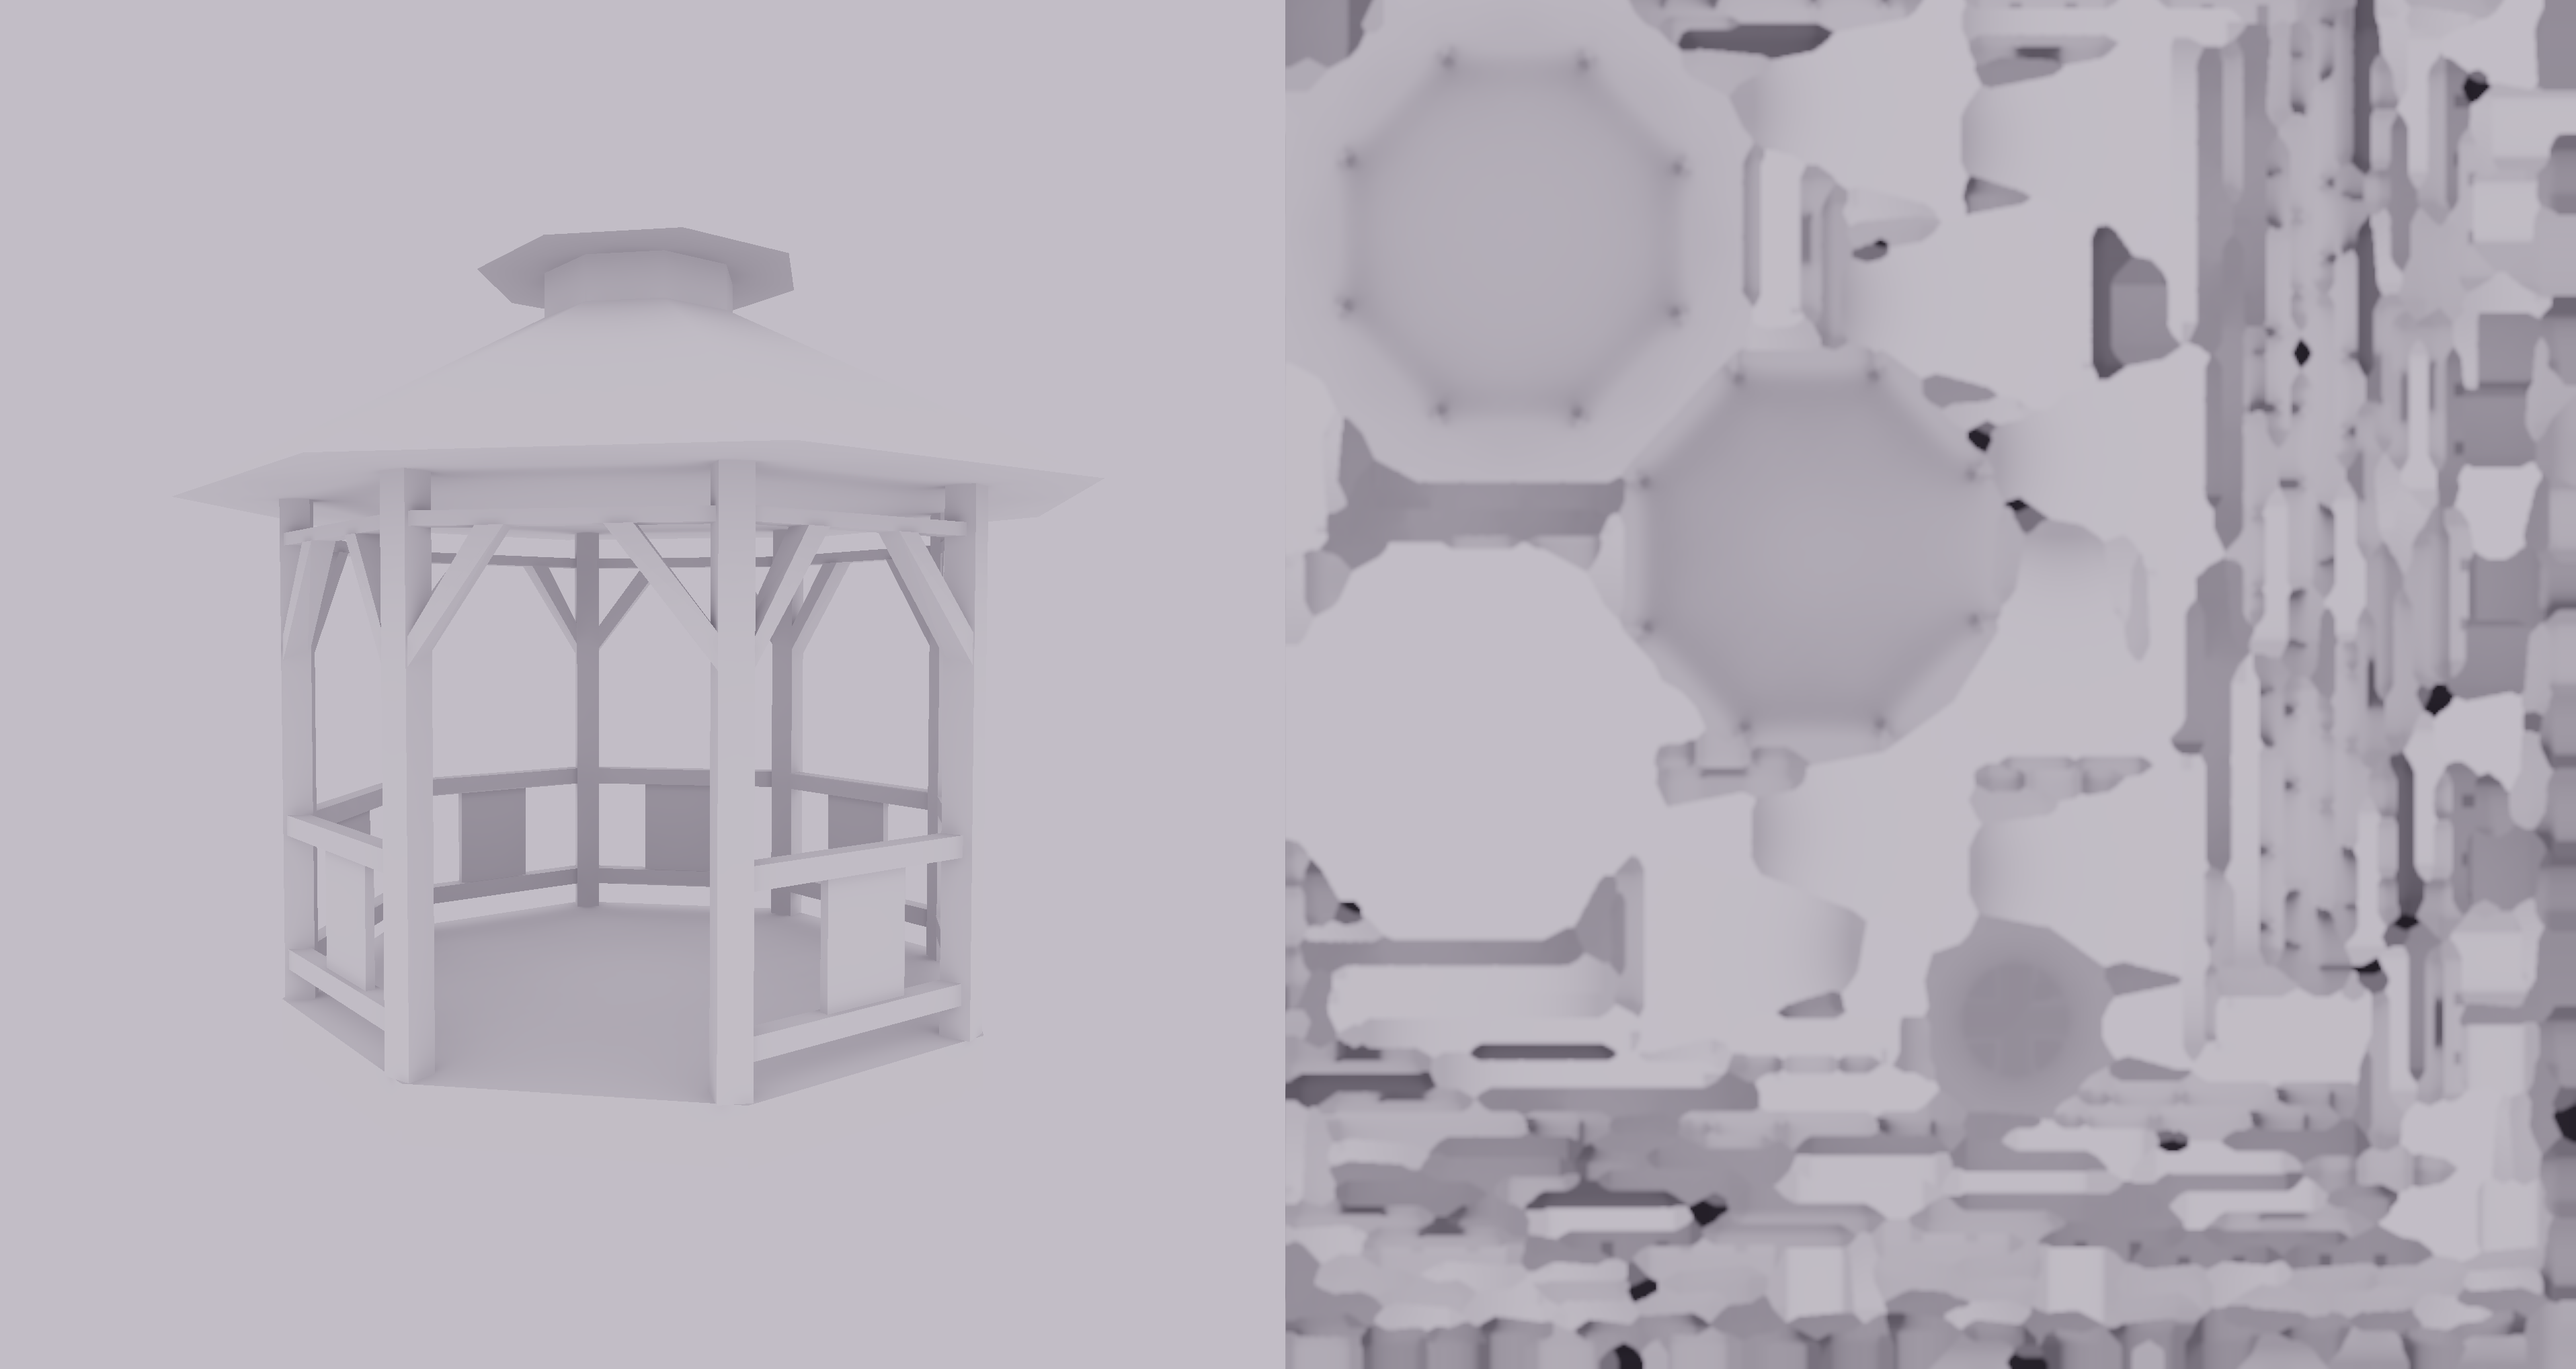
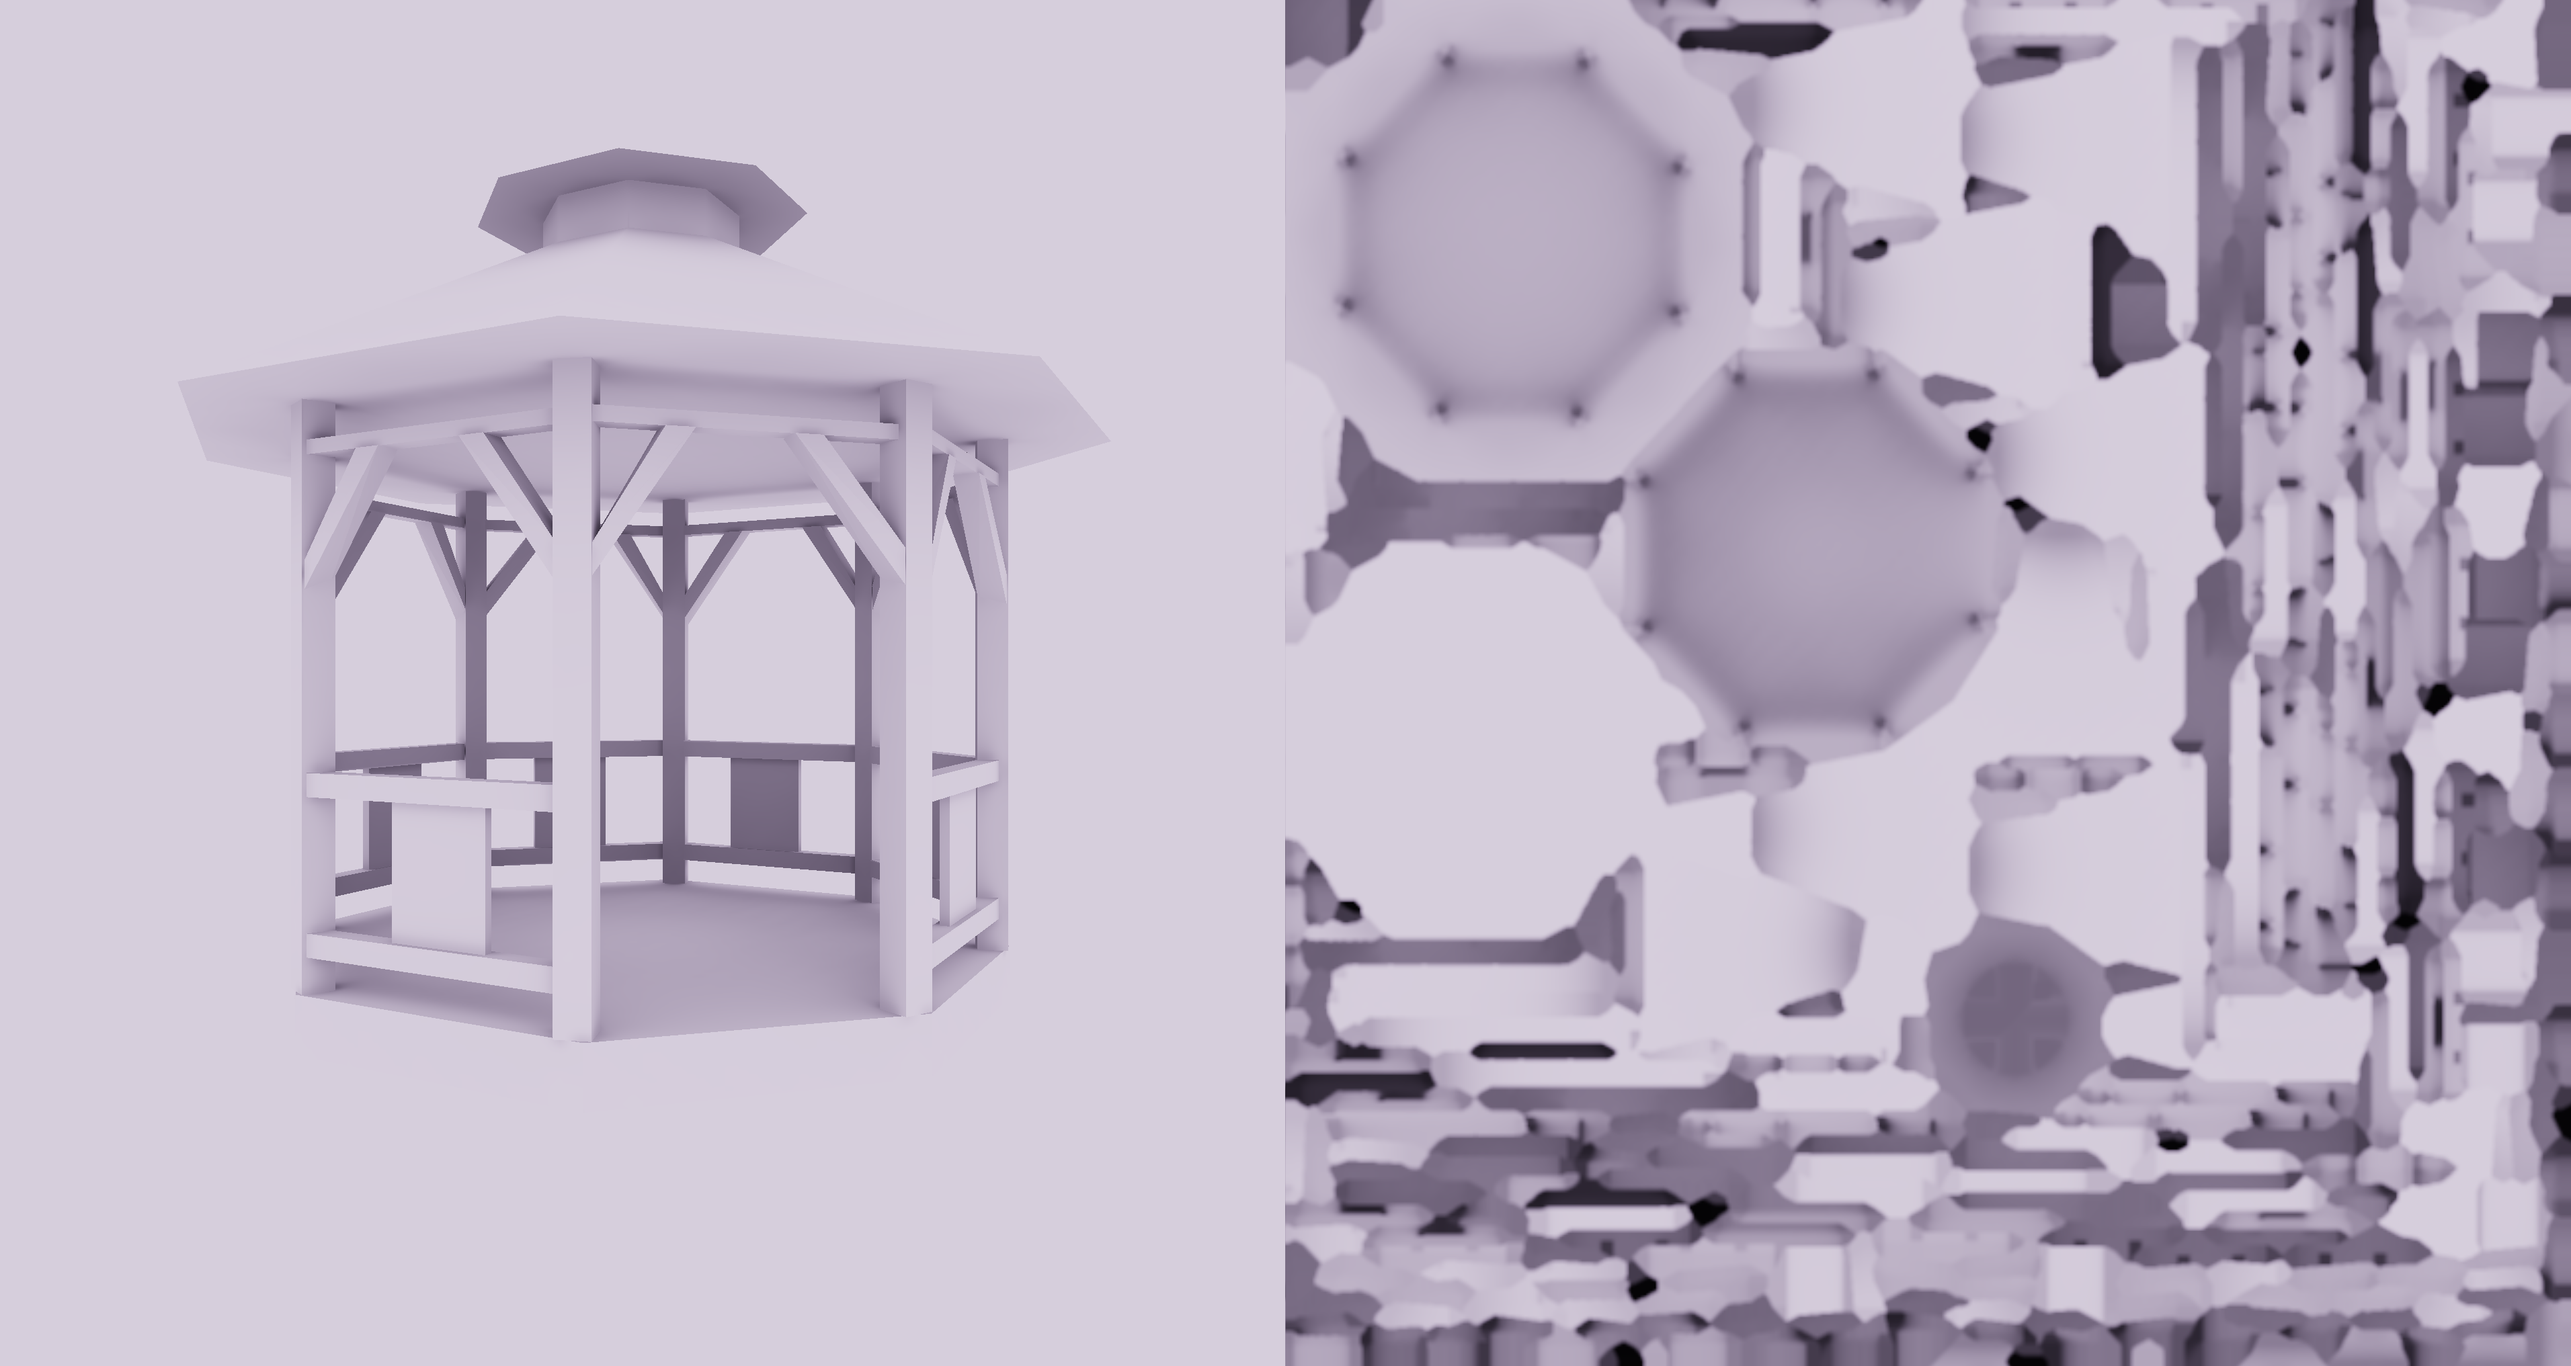
Fixed tonemapping.

diff --git a/readme.md b/readme.md
@@ -111,7 +111,7 @@ Global Illumination: (5 iterations, with environment map)
 
 ## Credits
 Thanks to:
-- [ands](https://github.com/ands) for his great lightmapping library, which I used as a reference implementation. I also used
+- [ands](https://github.com/ands) for their great lightmapping library, which I used as a reference implementation. I also used
   the lightmap UVs they had generated for the gazebo model.
 - Ignacio Castaño and Jonathan Blow for their informative blogs, which helped me understand the theory behind this approach.
 - Teh_Bucket for their [gazebo model](https://opengameart.org/content/gazebo-0).
